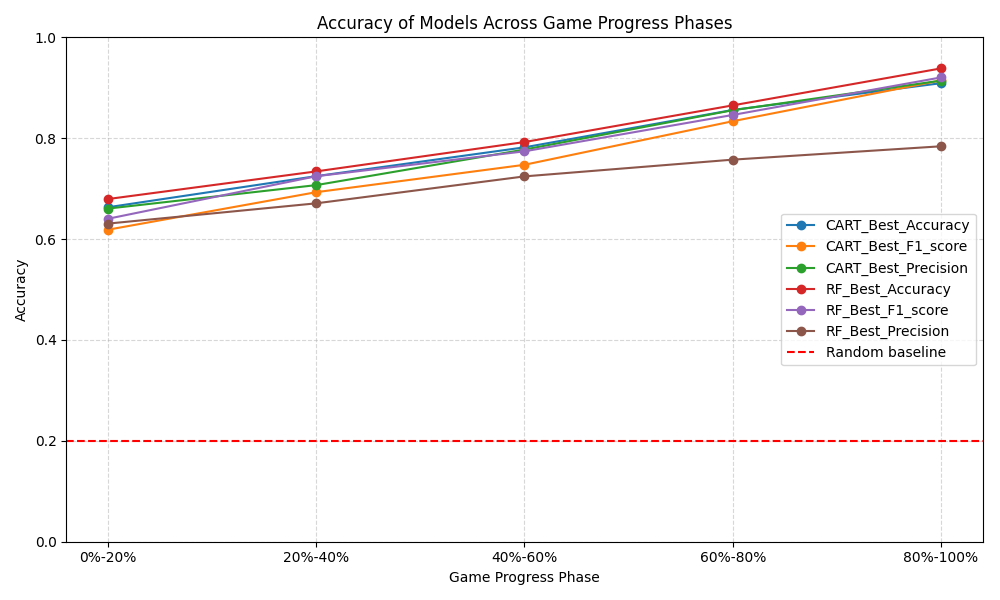
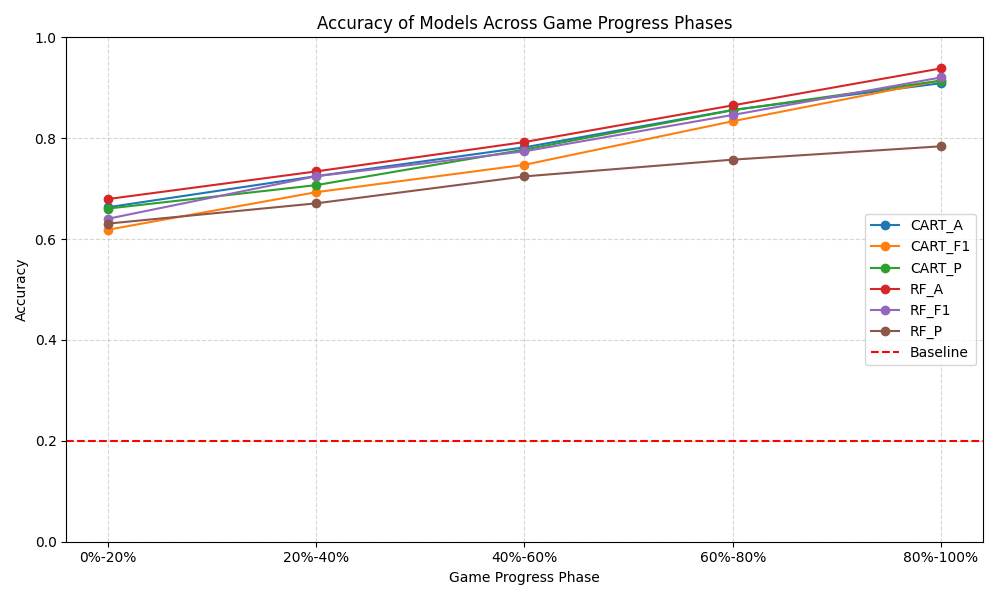
Mais mudanças

Changed region(s): [[0.775, 0.36, 0.961, 0.6]]

diff --git a/classes/classification/AnaliseResultados.py b/classes/classification/AnaliseResultados.py
@@ -183,7 +183,10 @@ class AnaliseResultados:
         
         # Pega o maior valor
         best_value = study.best_value
-
+        print(study_path, ":\n")
+        print(best_value)
+        print(len(study.trials), "trials")
+        '''
         # Filtra os trials com esse valor
         melhores_trials = [t for t in study.trials if t.value == best_value]
 
@@ -203,11 +206,11 @@ class AnaliseResultados:
                 print(f"  {k}: {v}")
             print()
             print("_" * 40)
-   
+        '''
         return
 
     @staticmethod
-    def plot_study_trials(study_path, metric):
+    def plot_study_trials(study_path, metric, model):
         study = joblib.load(study_path)
 
         # Extract data
@@ -217,88 +220,87 @@ class AnaliseResultados:
         # Plot
         plt.figure(figsize=(10, 5))
         plt.plot(x, y, marker='o', linestyle='-', color='blue', label='Score per trial')
-        plt.title("Score Evolution per Trial")
+        plt.title(f"{model} Score Evolution per Trial")
         plt.xlabel("Trial #")
         plt.ylabel(f"{metric} Score")
-        plt.yscale("log")          # Logarithmic scale
-        plt.ylim(1e-3, 0.8)       # Set Y range; avoid 0 for log scale
+        plt.ylim(0, 1)      
+        plt.xscale("log")          # escala logarítmica no eixo X
+        plt.xlim(1, 500) 
         plt.grid(True, which="both", linestyle="--", linewidth=0.5)
         plt.legend()
         plt.tight_layout()
-        plt.savefig(f"./classes/classification/results/study/trials/{metric}_trial.png")
+        plt.savefig(f"./classes/classification/results/study/trials/{model}_trial.png")
         # plt.show()
-    
-    def plot_trials_and_best_value(models_info, metric_name, filename):
-        """
-        Plots a horizontal bar chart comparing number of trials and best value for each model.
 
-        Exemple:
+    @staticmethod
+    def plot_best_values_all_models():
+
+        # Fixed results (trials, best_value)
         models_info = {
-            'CART': (50, 0.72),
-            'RF': (100, 0.78),
-            'XGB': (75, 0.81)
+            "CART-A": (223, 0.7648121643980227),
+            "CART-F1": (194, 0.7013390830685429),
+            "CART-P": (161, 0.7519929140832595),
+            "RF-A": (354, 0.7760183521625710),
+            "RF-F1": (266, 0.7160137294354362),
+            "RF-P": (174, 0.8383395207559905),
         }
-        plot_trials_and_best_value(models_info, metric_name="Accuracy", filename="./trials_best_value.png")
 
-        Args:
-            models_info (dict): Dictionary where keys are model abbreviations (str) and values are
-                                tuples (num_trials, best_value).
-                                Example: {'CART': (50, 0.72), 'RF': (100, 0.78)}
-            metric_name (str): Name of the metric (for labels/title)
-            filename (str): Path to save the figure
-        """
-        models = list(models_info.keys())
-        num_trials = [info[0] for info in models_info.values()]
-        best_values = [info[1] for info in models_info.values()]
-        
-        y_pos = range(len(models))
+        # Ordenar pela pontuação (maior primeiro)  
+        sorted_items = sorted(models_info.items(), key=lambda x: x[1][0], reverse=True)
+        # Para ordenar por trials trocar x[1][1] por x[1][0]
+
+        labels = [k for k, v in sorted_items]
+        trials = [v[0] for k, v in sorted_items]
+        values = [v[1] for k, v in sorted_items]
+        y = np.arange(len(labels))
 
         fig, ax1 = plt.subplots(figsize=(10, 6))
 
-        # First axis: number of trials
-        ax1.barh(y_pos, num_trials, color='skyblue', height=0.4, label='Number of Trials')
-        ax1.set_xlabel("Number of Trials")
-        ax1.set_yticks(y_pos)
-        ax1.set_yticklabels(models)
-        ax1.invert_yaxis()  # Highest on top
+        # Bar para trials (eixo inferior)
+        ax1.barh(y + 0.2, values, height=0.4, color="skyblue", label="Best Value")
+        ax1.set_xlim(0, 1)
+        ax1.set_xlabel("Best Metric Value", labelpad=10)
+        ax1.set_yticks(y)
+        ax1.set_yticklabels(labels)
+        ax1.invert_yaxis()
 
-        # Second axis: best value
-        ax2 = ax1.twiny()  # Share the same y-axis
-        ax2.barh([y + 0.4 for y in y_pos], best_values, color='salmon', height=0.4, label=f"Final {metric_name} Value")
-        ax2.set_xlabel(f"Final {metric_name} Value")
-        
+        # Bar para trials (eixo superior)
+        ax2 = ax1.twiny()
+        ax2.barh(y - 0.2, trials, height=0.4, color="salmon", label="Number of Trials")
+        ax2.set_xlabel("Number of Trials", labelpad=10)
+
         # Legends
-        ax1.legend(loc='lower right')
-        ax2.legend(loc='upper right')
+        ax1.legend(loc="lower right")
+        ax2.legend(loc="upper right")
 
-        plt.title(f"Number of Trials and Final {metric_name} Value per Model")
+        plt.title("Trials and Best Metric Values per Model")
         plt.tight_layout()
-        plt.savefig(filename)
-        # plt.show()
+        plt.savefig(f"./classes/classification/results/study/trials/overview.png")
+        plt.close()
 
     @staticmethod
     def plot_importances(importances: dict, model_name: str):
         
-        filtered = {k: v for k, v in importances.items() if v > 0.02}
-        #filtered = {k: v for k, v in importances.items()}
-
+        filtered = {k: v for k, v in importances.items() if v > 0.03}
         # Ordena por importância decrescente
         sorted_importances = dict(sorted(filtered.items(), key=lambda x: x[1], reverse=True))
         print(sorted_importances)
+
         # Plot
         plt.figure(figsize=(10, 5))
         plt.barh(list(sorted_importances.keys()), list(sorted_importances.values()))
-        plt.xlabel("Importance")
-        plt.title(f"{model_name} Feature importances > 0.02")
+        plt.xlabel("Importance", fontsize=14)
+        plt.ylabel("Features", fontsize=14)
+        plt.title(f"{model_name} Feature Importances > 0.03", fontsize=16)
         plt.gca().invert_yaxis()
-
-        plt.xlim(0, 0.4) # Define o limite do eixo x de 0 a 0.4
-
+        plt.xticks(fontsize=12)
+        plt.yticks(fontsize=12)
+        plt.xlim(0, 0.4)  # Define o limite do eixo x de 0 a 0.4
         plt.tight_layout()
-        #salva imagem no diretório de resultados
-        plt.savefig(f"./classes/classification/results/feature_importances/all_features/{model_name}_importances.png")
 
-        #plt.show()
+        # Salva imagem
+        plt.savefig(f"./classes/classification/results/feature_importances/{model_name}_importances.png")
+        # plt.show()
 
     # Compara os modelos CART e RF treinados
     @staticmethod
@@ -347,12 +349,12 @@ class AnaliseResultados:
         data = {
             "Phase": ["0%-20%", "20%-40%", "40%-60%", "60%-80%", "80%-100%"] * 6,
             "Model": (
-                ["CART_Best_Accuracy"] * 5 +
-                ["CART_Best_F1_score"] * 5 +
-                ["CART_Best_Precision"] * 5 +
-                ["RF_Best_Accuracy"] * 5 +
-                ["RF_Best_F1_score"] * 5 +
-                ["RF_Best_Precision"] * 5
+                ["CART_A"] * 5 +
+                ["CART_F1"] * 5 +
+                ["CART_P"] * 5 +
+                ["RF_A"] * 5 +
+                ["RF_F1"] * 5 +
+                ["RF_P"] * 5
             ),
             "Accuracy": [
                 0.6631, 0.7248, 0.7819, 0.8560, 0.9091,
@@ -397,7 +399,7 @@ class AnaliseResultados:
             plt.plot(subset['Phase'], subset['Accuracy'], marker='o', label=f"{model}")
             
         # Linha de referência para chance aleatória (1 em 5 jogadores)
-        plt.axhline(y=0.2, linestyle='--', color='red', label='Random baseline')
+        plt.axhline(y=0.2, linestyle='--', color='red', label='Baseline')
 
         plt.title("Accuracy of Models Across Game Progress Phases")
         plt.xlabel("Game Progress Phase")
@@ -416,7 +418,7 @@ class AnaliseResultados:
             plt.plot(subset['Phase'], subset['F1'], marker='o', label=f"{model}")
 
         # Linha de referência para chance aleatória (1 em 5 jogadores)
-        plt.axhline(y=0.2, linestyle='--', color='red', label='Random baseline')
+        plt.axhline(y=0.2, linestyle='--', color='red', label='Baseline')
 
         plt.title("F1 Score of Models Across Game Progress Phases")
         plt.xlabel("Game Progress Phase")
@@ -435,7 +437,7 @@ class AnaliseResultados:
             plt.plot(subset['Phase'], subset['Precision'], marker='o', label=f"{model}")
 
         # Linha de referência para chance aleatória (1 em 5 jogadores)
-        plt.axhline(y=0.2, linestyle='--', color='red', label='Random baseline')
+        plt.axhline(y=0.2, linestyle='--', color='red', label='Baseline')
 
         plt.title("Precision of Models Across Game Progress Phases")
         plt.xlabel("Game Progress Phase")
@@ -454,7 +456,7 @@ class AnaliseResultados:
             plt.plot(subset['Phase'], subset['Recall'], marker='o', label=f"{model}")
 
         # Linha de referência para chance aleatória (1 em 5 jogadores)
-        plt.axhline(y=0.2, linestyle='--', color='red', label='Random baseline')    
+        plt.axhline(y=0.2, linestyle='--', color='red', label='Baseline')    
 
         plt.title("Recall of Models Across Game Progress Phases")
         plt.xlabel("Game Progress Phase")

diff --git a/Principal.py b/Principal.py
@@ -27,8 +27,6 @@ feature_names = [
 ]
 metrics = ["Accuracy", "F1_Score", "Precision"]
 
-#jogos, rotulos = ClassificaEstados.ler_amostras(x, y, False)
-X_train, X_test, y_train, y_test = ClassificaEstados.ler_amostras(x, y, True)
 '''
 
 ClassificaEstados.optuna_CART(X_train, y_train)
@@ -75,17 +73,29 @@ studies =[
 ]
 
 studies_names = [
-    'CART_Best_Accuracy',
-    'CART_Best_F1_Score',
-    'CART_Best_Precision',
-    'RF_Best_Accuracy',
-    'RF_Best_F1_Score',
-    'RF_Best_Precision'
+    'CART-A',
+    'CART-F1',
+    'CART-P',
+    'RF-A',
+    'RF-F1',
+    'RF-P'
 ]
+
+metrics = [
+    "Accuracy",
+    "F1",
+    "Precision",
+    "Accuracy",
+    "F1",
+    "Precision"
+]
+
+for i in range(len(studies)):
+    AnaliseResultados.plot_study_trials(studies[i], metrics[i], studies_names[i])
 
 #print(X_test[0])
 #print(y_test[0])
-AnaliseResultados.shap_analysis(X_train, X_test, models[3], feature_names, model_names[3])
+#AnaliseResultados.shap_analysis(X_train, X_test, models[3], feature_names, model_names[3])
 
 #AnaliseResultados.plot_tree(models[2], model_names[2], feature_names)
 
@@ -93,7 +103,8 @@ AnaliseResultados.shap_analysis(X_train, X_test, models[3], feature_names, model
 
 #for i in range(len(models)):
 #    info_dict = ClassificaEstados.modelo_info(models[i], feature_names)
-#    AnaliseResultados.plot_importances(info_dict["Feature Importances"], model_names[i])
+#    AnaliseResultados.plot_importances(info_dict["Feature Importances"], studies_names[i])
+
 #ColetaEstados.correlacao()
 
 #ColetaEstados.coleta_amostras(30, x, y, '', 1)
